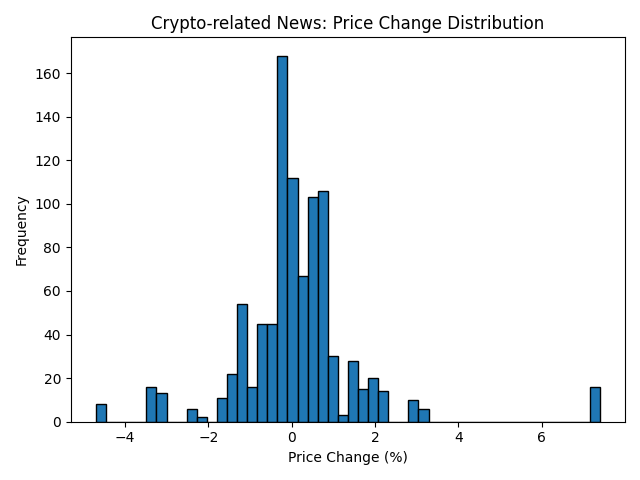
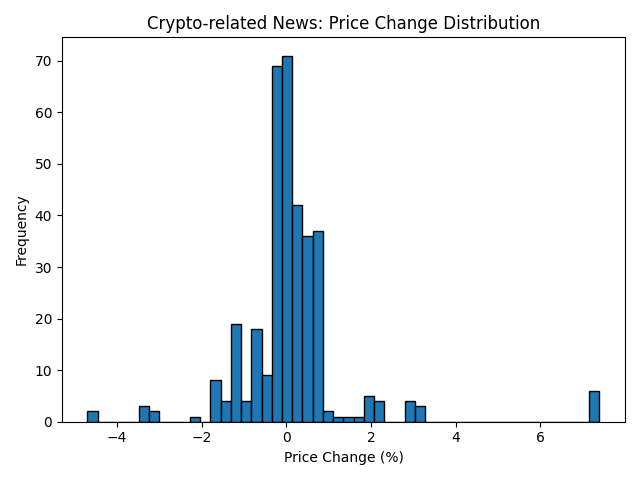
sentiment vs price updated to include all labels

diff --git a/analytics/plot_sentiment_vs_price.py b/analytics/plot_sentiment_vs_price.py
@@ -1,7 +1,10 @@
 import matplotlib.pyplot as plt
 import pandas as pd
 from sqlalchemy import create_engine, text
-from utils.config import DB_URL
+from utils.config import DB_URL, NEWS_CANDIDATE_LABELS
+from utils.logging import setup_logger
+
+logger = setup_logger(__name__)
 
 def plot_sentiment_vs_price():
     engine = create_engine(DB_URL)
@@ -18,49 +21,29 @@ def plot_sentiment_vs_price():
     """)
     df = pd.read_sql(sql, engine)
 
-    # Separate subsets
-    df_crypto = df[df['label'] == 'cryptocurrency']
-    df_general = df[df['label'] == 'general']
+    for label in NEWS_CANDIDATE_LABELS: 
+      label_df = df[df['label'] == label]
+      # Scatter for general
+      plt.figure()
+      plt.scatter(label_df['sentiment'], label_df['price_change'], alpha=0.6, s=10)
+      plt.xlabel('Sentiment Score')
+      plt.ylabel('Price Change (%)')
+      plt.title('General News: Sentiment vs. Price Change')
+      plt.tight_layout()
+      plt.savefig(f'data/analytics/{label}_scatter.png')
+      plt.close()
 
-    # Scatter for crypto
-    plt.figure()
-    plt.scatter(df_crypto['sentiment'], df_crypto['price_change'], alpha=0.6, s=10)
-    plt.xlabel('Sentiment Score')
-    plt.ylabel('Price Change (%)')
-    plt.title('Crypto-related News: Sentiment vs. Price Change')
-    plt.tight_layout()
-    plt.savefig('data/analytics/crypto_scatter.png')
-    plt.close()
+      # Histogram for crypto
+      plt.figure()
+      plt.hist(label_df['price_change'], bins=50, edgecolor='black')
+      plt.xlabel('Price Change (%)')
+      plt.ylabel('Frequency')
+      plt.title('Crypto-related News: Price Change Distribution')
+      plt.tight_layout()
+      plt.savefig(f'data/analytics/{label}_hist.png')
+      plt.close()
 
-    # Scatter for general
-    plt.figure()
-    plt.scatter(df_general['sentiment'], df_general['price_change'], alpha=0.6, s=10)
-    plt.xlabel('Sentiment Score')
-    plt.ylabel('Price Change (%)')
-    plt.title('General News: Sentiment vs. Price Change')
-    plt.tight_layout()
-    plt.savefig('data/analytics/general_scatter.png')
-    plt.close()
-
-    # Histogram for crypto
-    plt.figure()
-    plt.hist(df_crypto['price_change'], bins=50, edgecolor='black')
-    plt.xlabel('Price Change (%)')
-    plt.ylabel('Frequency')
-    plt.title('Crypto-related News: Price Change Distribution')
-    plt.tight_layout()
-    plt.savefig('data/analytics/crypto_hist.png')
-    plt.close()
-
-    # Histogram for general
-    plt.figure()
-    plt.hist(df_general['price_change'], bins=50, edgecolor='black')
-    plt.xlabel('Price Change (%)')
-    plt.ylabel('Frequency')
-    plt.title('General News: Price Change Distribution')
-    plt.tight_layout()
-    plt.savefig('data/analytics/general_hist.png')
-    plt.close()
+      logger.info("Sentiment vs Price Plots are all generated")
 
 # Run the plotting function
 if __name__ == "__main__":

diff --git a/analytics/sentiment_buckets_analysis.py b/analytics/sentiment_buckets_analysis.py
@@ -54,7 +54,7 @@ def bucket_and_summarize():
     plt.title('Avg Crypto Price Move by Sentiment Bucket')
     plt.tight_layout()
     plt.savefig('data/analytics/bucket_bar_chart.png')
-    print("Saved bucket bar chart to data/analytics/bucket_bar_chart.png")
+    logger.info("Saved bucket bar chart to data/analytics/bucket_bar_chart.png")
 
 
 if __name__ == "__main__":
